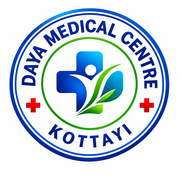
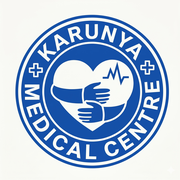
Add files via upload

diff --git a/index.html b/index.html
@@ -1,4 +1,4 @@
-<!doctype html><html lang="en"><head><meta charset="utf-8"><meta name="viewport" content="width=device-width,initial-scale=1,viewport-fit=cover"><meta name="theme-color" content="#123f9a"><meta name="apple-mobile-web-app-capable" content="yes"><meta name="apple-mobile-web-app-title" content="DAYA Medical Centre"><link rel="apple-touch-icon" href="icon-180.png"><link rel="manifest" href="manifest.webmanifest"><title>DAYA Clinic Manager | DAYA MEDICAL CENTRE, Kottayi</title>
+<!doctype html><html lang="en"><head><meta charset="utf-8"><meta name="viewport" content="width=device-width,initial-scale=1,viewport-fit=cover"><meta name="theme-color" content="#123f9a"><meta name="apple-mobile-web-app-capable" content="yes"><meta name="apple-mobile-web-app-title" content="KARUNYA MEDICAL CENTRE"><link rel="apple-touch-icon" href="icon-180.png"><link rel="manifest" href="manifest.webmanifest"><title>KARUNYA Clinic Manager | KARUNYA MEDICAL CENTRE, Ittonam</title>
 <style>
 :root{font-family:-apple-system,BlinkMacSystemFont,Arial,sans-serif;color:#16393c;background:#f3f8f7}*{box-sizing:border-box}body{margin:0}header{background:#123f9a;color:white;padding:14px 20px;display:flex;align-items:center;justify-content:space-between;gap:10px}header img{height:55px;width:55px;object-fit:contain;background:white;border-radius:12px}header .brand{display:flex;align-items:center;gap:12px}header h1{font-size:21px;margin:0}header small{opacity:.9}main{max-width:1050px;margin:auto;padding:18px}nav{display:flex;gap:7px;overflow:auto;margin-bottom:18px}button{background:#123f9a;color:white;border:0;border-radius:9px;padding:11px 15px;font-weight:650;cursor:pointer}button.secondary{background:#e8eefb;color:#0a347e}button.danger{background:#a42f38}nav button{white-space:nowrap;background:#e8eefb;color:#123f9a}nav button.active{background:#123f9a;color:white}.card{background:white;border:1px solid #dce9e6;border-radius:15px;padding:18px;margin-bottom:15px;box-shadow:0 3px 12px #1233}.grid{display:grid;grid-template-columns:repeat(2,minmax(0,1fr));gap:12px}.three{grid-template-columns:repeat(3,minmax(0,1fr))}label{display:block;font-size:12px;font-weight:700;color:#4d6d70;margin:7px 0 5px}input,textarea,select{width:100%;padding:11px;border:1px solid #c9dcda;border-radius:9px;font:inherit;background:white}textarea{min-height:70px}.actions{display:flex;gap:8px;flex-wrap:wrap;margin-top:14px}.muted{color:#647c80;font-size:13px}.warning{padding:12px;background:#fff3d9;border-radius:9px;color:#77561c}.error{color:#a42f38}.hidden{display:none!important}.row{display:flex;align-items:center;gap:9px;flex-wrap:wrap}.row>*{min-width:0}.entry{padding:10px 0;border-bottom:1px solid #e3ece9}.entry:last-child{border:0}.entry button{padding:7px 10px}h2{font-size:20px;margin:0 0 12px}h3{font-size:15px;color:#123f9a}section.panel{display:none}section.panel.active{display:block}#auth{position:fixed;inset:0;z-index:100;background:#eaf3f1;display:flex;align-items:center;justify-content:center;padding:15px}#auth .card{width:min(480px,100%)}#auth img{width:110px;height:90px;object-fit:contain}#printOverlay{position:fixed;inset:0;z-index:200;overflow:auto;background:#dce5e4;padding:16px}#printSheet{background:white;width:min(210mm,100%);min-height:0;margin:auto;padding:16mm;display:flex;flex-direction:column;gap:12px;color:#19383c;font-size:12px}#printSheet .rxhead{display:flex;gap:15px;align-items:center;border-bottom:3px solid #123f9a;padding-bottom:13px}#printSheet .rxhead img{width:85px;height:85px;object-fit:contain}#printSheet .rxname{font-size:25px;color:#123f9a;font-weight:800}#printSheet .patient{background:#eef3fc;border-radius:8px;padding:12px;display:grid;grid-template-columns:repeat(3,1fr);gap:10px}#printSheet .rxsection{padding:8px 0;border-bottom:1px solid #e2ece9;white-space:pre-wrap;overflow-wrap:anywhere}#printSheet .rxsection b{color:#123f9a;text-transform:uppercase;letter-spacing:.7px;font-size:10px;display:block;margin-bottom:4px}table{width:100%;border-collapse:collapse}th{background:#e8eefb;text-align:left;color:#183b7d}td,th{padding:9px;border-bottom:1px solid #e4eeeb;vertical-align:top;overflow-wrap:anywhere}#printSheet footer{margin-top:auto;text-align:right;padding-top:35px}#printControls{position:sticky;top:0;display:flex;justify-content:center;gap:10px;background:#dce5e4;padding:10px;margin-bottom:10px}@media(max-width:650px){.grid,.three{grid-template-columns:1fr}#printSheet{padding:20px;min-height:0}.rxname{font-size:20px!important}}@media print{@page{size:A5;margin:7mm}body>*:not(#printOverlay){display:none!important}#printOverlay{position:static;background:white;padding:0;overflow:visible}#printControls{display:none!important}#printSheet{width:auto;min-height:0;padding:0;margin:0;print-color-adjust:exact;-webkit-print-color-adjust:exact}.rxsection,tr{break-inside:avoid}}
 </style>
@@ -43,11 +43,11 @@ input,textarea,select{border-color:#cfe3df;border-radius:10px;padding:11px}label
 @media(max-width:560px){main{padding:10px}.card{padding:15px}.dash-summary{grid-template-columns:1fr 1fr;gap:8px}.dash-stat{padding:12px;gap:8px}.dash-stat strong{font-size:19px}.dash-icon{flex-basis:34px;height:34px}.dash-brand{display:none}.dash-hero h2{font-size:22px}}
 @media print{@page{size:A5 portrait;margin:7mm}@page invoicepage{size:A4 portrait;margin:10mm}#printSheet.invoice-print{width:190mm!important;min-height:277mm!important;padding:8mm!important;margin:0!important}#printSheet.invoice-print table,#printSheet.invoice-print .invoice-totals,#printSheet.invoice-print footer{break-inside:avoid}}
 </style></head><body>
-<div id="auth"><div class="card"><img src="./daya-logo.png" alt="DAYA MEDICAL CENTRE, Kottayi"><h2>DAYA Clinic Manager — Secure Beta</h2><p id="authIntro" class="muted">Create a strong passphrase to encrypt your clinic records on this iPad.</p><label>Passphrase (minimum 12 characters)</label><input type="password" id="pass" autocomplete="off"><div id="confirmBlock"><label>Confirm passphrase</label><input type="password" id="passConfirm" autocomplete="off"></div><div class="actions"><button id="unlockBtn">Create encrypted vault</button><button type="button" class="secondary" id="recoverBtn">Recover from recovery kit</button></div><div id="recoveryPanel" class="hidden"><h3>Recover using your recovery kit</h3><p class="muted">Recovery restores the snapshot saved in the kit. Changes after its creation will not be recovered.</p><label>Recovery kit file</label><input id="recoveryFile" type="file" accept=".json,application/json"><label>Recovery key (from the kit)</label><input id="recoveryKey" autocomplete="off" spellcheck="false"><label>New passphrase (12+ characters)</label><input id="recoveryNewPass" type="password" autocomplete="off"><label>Confirm new passphrase</label><input id="recoveryConfirm" type="password" autocomplete="off"><div class="actions"><button id="doRecover" type="button">Recover and set new passphrase</button></div><p class="error" id="recoveryError"></p></div><p id="authError" class="error"></p><p class="warning">Recovery requires a previously exported recovery kit AND its separate recovery key. Without these, lost passphrases cannot be reset. Clearing Safari data can permanently erase the local vault.</p></div></div>
-<header><div class="brand"><img src="./daya-logo.png" alt="DAYA MEDICAL CENTRE, Kottayi"><div><h1>DAYA Clinic Manager</h1><small>DAYA MEDICAL CENTRE · KOTTAYI · Offline encrypted beta</small></div></div><button class="secondary" id="lockBtn">Lock</button></header>
+<div id="auth"><div class="card"><img src="./karunya-logo.png" alt="KARUNYA MEDICAL CENTRE, Ittonam"><h2>KARUNYA Clinic Manager — Secure Beta</h2><p id="authIntro" class="muted">Create a strong passphrase to encrypt your clinic records on this iPad.</p><label>Passphrase (minimum 12 characters)</label><input type="password" id="pass" autocomplete="off"><div id="confirmBlock"><label>Confirm passphrase</label><input type="password" id="passConfirm" autocomplete="off"></div><div class="actions"><button id="unlockBtn">Create encrypted vault</button><button type="button" class="secondary" id="recoverBtn">Recover from recovery kit</button></div><div id="recoveryPanel" class="hidden"><h3>Recover using your recovery kit</h3><p class="muted">Recovery restores the snapshot saved in the kit. Changes after its creation will not be recovered.</p><label>Recovery kit file</label><input id="recoveryFile" type="file" accept=".json,application/json"><label>Recovery key (from the kit)</label><input id="recoveryKey" autocomplete="off" spellcheck="false"><label>New passphrase (12+ characters)</label><input id="recoveryNewPass" type="password" autocomplete="off"><label>Confirm new passphrase</label><input id="recoveryConfirm" type="password" autocomplete="off"><div class="actions"><button id="doRecover" type="button">Recover and set new passphrase</button></div><p class="error" id="recoveryError"></p></div><p id="authError" class="error"></p><p class="warning">Recovery requires a previously exported recovery kit AND its separate recovery key. Without these, lost passphrases cannot be reset. Clearing Safari data can permanently erase the local vault.</p></div></div>
+<header><div class="brand"><img src="./karunya-logo.png" alt="KARUNYA MEDICAL CENTRE, Ittonam"><div><h1>KARUNYA Clinic Manager</h1><small>KARUNYA MEDICAL CENTRE · ITTONAM · Offline encrypted beta</small></div></div><button class="secondary" id="lockBtn">Lock</button></header>
 <main><div class="warning">Security beta: records are encrypted at rest, but this is not yet independently security-tested or approved for live identifiable patient data. Test with fictional records.</div><nav id="nav"><button data-tab="dashboard" class="active">Dashboard</button><button data-tab="patients">Patients</button><button data-tab="consult">Consultation</button><button data-tab="history">History</button><button data-tab="appointments">Appointments</button><button data-tab="billing">Billing & invoices</button><button data-tab="reports">Reports & analytics</button><button data-tab="presets">Saved medicines & labs</button><button data-tab="settings">Settings & encrypted backups</button></nav>
 <section id="dashboard" class="panel">
-<div class="dash-hero"><div><h2>Welcome back</h2><p>Better care. Healthier tomorrows.</p></div><div class="dash-brand"><img src="./daya-logo.png" alt="DAYA MEDICAL CENTRE, Kottayi"><strong>DAYA MEDICAL CENTRE</strong><small>Kottayi · Clinic management</small></div></div>
+<div class="dash-hero"><div><h2>Welcome back</h2><p>Better care. Healthier tomorrows.</p></div><div class="dash-brand"><img src="./karunya-logo.png" alt="KARUNYA MEDICAL CENTRE, Ittonam"><strong>KARUNYA MEDICAL CENTRE</strong><small>Ittonam · Clinic management</small></div></div>
 <div class="dash-summary"><div class="dash-stat"><span class="dash-icon">♙</span><div><label>Total patients</label><strong id="dashPatients">0</strong><small>Registered patients</small></div></div><div class="dash-stat"><span class="dash-icon blue">▦</span><div><label>Today's appointments</label><strong id="dashAppointments">0</strong><small>Scheduled today</small></div></div><div class="dash-stat"><span class="dash-icon purple">▤</span><div><label>Consultations</label><strong id="dashConsultations">0</strong><small>Today</small></div></div><div class="dash-stat"><span class="dash-icon amber">₹</span><div><label>Revenue today</label><strong id="dashRevenue">₹0.00</strong><small>Paid invoices</small></div></div></div>
 <div class="dash-columns"><div class="card dash-table-card"><div class="dash-card-head"><h3>Today's appointments</h3><button class="secondary" data-open="appointments">View all</button></div><div id="dashApptTable" class="dash-table"></div></div><div class="card dash-quick"><h3>Quick actions</h3><div class="dash-quick-grid"><button data-open="patients">＋ Register patient</button><button data-open="consult">✚ New consultation</button><button data-open="billing">₹ Create invoice</button><button data-open="history">▤ Patient history</button><button data-open="presets">♧ Saved medicines & labs</button><button data-open="appointments">▦ Schedule appointment</button></div><p class="muted">Clinical records are encrypted in this browser's IndexedDB while the vault is unlocked.</p></div></div>
 <div class="card dash-table-card"><div class="dash-card-head"><h3>Recent patients</h3><button class="secondary" data-open="patients">View all</button></div><div id="dashPatientTable" class="dash-table"></div></div><div class="card dash-meta"><p id="stats"></p><div id="dailyCounts" class="grid three"></div></div></section>
@@ -68,9 +68,9 @@ const b64=u=>btoa(String.fromCharCode(...u));
 const un64=s=>Uint8Array.from(atob(s),c=>c.charCodeAt(0));
 const rand=n=>crypto.getRandomValues(new Uint8Array(n));
 const clean=x=>String(x??'').replace(/[&<>"']/g,c=>({'&':'&amp;','<':'&lt;','>':'&gt;','"':'&quot;',"'":'&#39;'}[c]));
-const initial=()=>({patients:[],visits:[],medPresets:[],labPresets:[],nextPatientSerial:1,appointments:[],invoices:[],nextInvoiceSerial:1,settings:{clinic:'DAYA MEDICAL CENTRE',doctor:'',reg:'',contact:''}});
+const initial=()=>({patients:[],visits:[],medPresets:[],labPresets:[],nextPatientSerial:1,appointments:[],invoices:[],nextInvoiceSerial:1,settings:{clinic:'KARUNYA MEDICAL CENTRE',doctor:'',reg:'',contact:''}});
 let data=initial(),key=null,vault=null,idle=null,busy=false;
-const DB_NAME='daya-medical-centre-secure-v1',STORE='vault';
+const DB_NAME='karunya-medical-centre-secure-v1',STORE='vault';
 function openDB(){return new Promise((resolve,reject)=>{const r=indexedDB.open(DB_NAME,1);r.onupgradeneeded=()=>r.result.createObjectStore(STORE);r.onsuccess=()=>resolve(r.result);r.onerror=()=>reject(r.error)})}
 async function getRecord(){const db=await openDB();return new Promise((resolve,reject)=>{const t=db.transaction(STORE,'readonly'),r=t.objectStore(STORE).get('primary');r.onsuccess=()=>{db.close();resolve(r.result)};r.onerror=()=>{db.close();reject(r.error)}})}
 async function putRecord(record){const db=await openDB();return new Promise((resolve,reject)=>{const t=db.transaction(STORE,'readwrite');t.objectStore(STORE).put(record,'primary');t.oncomplete=()=>{db.close();resolve()};t.onerror=()=>{db.close();reject(t.error)};t.onabort=()=>{db.close();reject(t.error)}})}
@@ -95,7 +95,7 @@ function options(items,placeholder){return '<option value="">'+placeholder+'</op
 function nextPatientNumber(){const used=new Set(data.patients.map(p=>String(p.number||'')));let n=Math.max(1,Number.isSafeInteger(data.nextPatientSerial)?data.nextPatientSerial:1);for(const p of data.patients){if(/^\d+$/.test(String(p.number||'')))n=Math.max(n,Number(p.number)+1)}while(used.has(String(n).padStart(6,'0'))||used.has(String(n)))n++;return n}
 function render(){if(!key)return;$('pNumber').value=String(nextPatientNumber()).padStart(6,'0');$('stats').textContent=`${data.patients.length} patients · ${data.visits.length} consultations · ${data.medPresets.length} medication presets · ${data.labPresets.length} saved labs`;
 const patients=[...data.patients].sort((a,b)=>a.name.localeCompare(b.name));for(const id of ['vPatient','historyPatient']){const el=$(id),prev=el.value;el.innerHTML=options(patients,'Select patient');el.value=prev}
-renderPatients();renderHistory();renderPresets();renderOperations();$('sClinic').value=data.settings.clinic||'DAYA MEDICAL CENTRE';$('sDoctor').value=data.settings.doctor||'';$('sReg').value=data.settings.reg||'';$('sContact').value=data.settings.contact||''}
+renderPatients();renderHistory();renderPresets();renderOperations();$('sClinic').value=data.settings.clinic||'KARUNYA MEDICAL CENTRE';$('sDoctor').value=data.settings.doctor||'';$('sReg').value=data.settings.reg||'';$('sContact').value=data.settings.contact||''}
 function renderPatients(){const q=$('patientSearch').value.toLowerCase();$('patientList').innerHTML=data.patients.filter(p=>(p.name+' '+p.number).toLowerCase().includes(q)).map(p=>`<div class="entry"><strong>${clean(p.name)}</strong> · ${clean(p.number)} · ${clean(p.age)} / ${clean(p.sex)}<div class="muted">Allergies: ${clean(p.allergies||'Not entered')}</div></div>`).join('')||'<p class="muted">No patients found.</p>'}
 $('patientSearch').oninput=renderPatients;
 $('addPatient').onclick=()=>guard(async()=>{const name=$('pName').value.trim();if(!name)throw Error('Enter patient name');const p={id:crypto.randomUUID(),number:String(nextPatientNumber()).padStart(6,'0'),name,createdDate:localDate(),age:$('pAge').value,sex:$('pSex').value,phone:$('pPhone').value.trim(),allergies:$('pAllergies').value.trim()};if(data.patients.some(x=>x.number===p.number))throw Error('Patient ID already exists');const priorSerial=data.nextPatientSerial;data.nextPatientSerial=Number(p.number)+1;data.patients.push(p);try{await persist()}catch(e){data.patients.pop();data.nextPatientSerial=priorSerial;throw e}['pName','pAge','pPhone','pAllergies'].forEach(id=>$(id).value='');render();alert('Patient saved in encrypted vault')});
@@ -114,9 +114,9 @@ async function saveLabPreset(name){return guard(async()=>{if(!name)throw Error('
 $('saveMedPreset').onclick=()=>saveMedPreset({name:$('mName').value.trim(),dose:$('mDose').value.trim(),freq:$('mFreq').value.trim(),duration:$('mDuration').value.trim()});
 $('saveLabPreset').onclick=()=>saveLabPreset($('lName').value.trim());
 $('useMed').onclick=()=>{const i=$('medSelect').value;if(i!=='')addMed(data.medPresets[+i])};$('useLab').onclick=()=>{const i=$('labSelect').value;if(i!=='')addLab({test:data.labPresets[+i]})};
-$('saveSettings').onclick=()=>guard(async()=>{data.settings={clinic:$('sClinic').value.trim()||'DAYA MEDICAL CENTRE',doctor:$('sDoctor').value.trim(),reg:$('sReg').value.trim(),contact:$('sContact').value.trim()};await persist();alert('Clinic details saved')});
+$('saveSettings').onclick=()=>guard(async()=>{data.settings={clinic:$('sClinic').value.trim()||'KARUNYA MEDICAL CENTRE',doctor:$('sDoctor').value.trim(),reg:$('sReg').value.trim(),contact:$('sContact').value.trim()};await persist();alert('Clinic details saved')});
 $('exportBackup').onclick=()=>guard(async()=>{const backup={...vault,exportedAt:new Date().toISOString(),type:'daya-encrypted-backup'};const blob=new Blob([JSON.stringify(backup,null,2)],{type:'application/json'});const url=URL.createObjectURL(blob),a=document.createElement('a');a.href=url;a.download='daya-encrypted-'+new Date().toISOString().slice(0,10)+'.json';document.body.append(a);a.click();a.remove();setTimeout(()=>URL.revokeObjectURL(url),10000);status('Encrypted backup downloaded. Verify the file is stored outside this iPad.')});
-$('restoreBackup').onclick=()=>guard(async()=>{const f=$('backupFile').files[0],pass=$('backupPass').value;if(!f||!pass)throw Error('Choose backup and enter its passphrase');if(f.size>25*1024*1024)throw Error('Backup too large');const r=JSON.parse(await f.text());if(r.format!=='daya-aesgcm-v1')throw Error('Not a DAYA MEDICAL CENTRE encrypted backup');const restoredKey=await derive(pass,un64(r.salt),r.iterations),restored=await decrypt(r,restoredKey);validate(restored);upgradeOperations(restored);if(!confirm('REPLACE all records on this iPad with the encrypted backup? This cannot be undone.'))return;const record={format:r.format,iterations:r.iterations,salt:r.salt,iv:r.iv,ciphertext:r.ciphertext};await putRecord(record);vault=record;key=restoredKey;data=restored;$('backupPass').value='';render();status('Encrypted backup restored successfully.');alert('Restore completed')});
+$('restoreBackup').onclick=()=>guard(async()=>{const f=$('backupFile').files[0],pass=$('backupPass').value;if(!f||!pass)throw Error('Choose backup and enter its passphrase');if(f.size>25*1024*1024)throw Error('Backup too large');const r=JSON.parse(await f.text());if(r.format!=='daya-aesgcm-v1')throw Error('Not a KARUNYA MEDICAL CENTRE encrypted backup');const restoredKey=await derive(pass,un64(r.salt),r.iterations),restored=await decrypt(r,restoredKey);validate(restored);upgradeOperations(restored);if(!confirm('REPLACE all records on this iPad with the encrypted backup? This cannot be undone.'))return;const record={format:r.format,iterations:r.iterations,salt:r.salt,iv:r.iv,ciphertext:r.ciphertext};await putRecord(record);vault=record;key=restoredKey;data=restored;$('backupPass').value='';render();status('Encrypted backup restored successfully.');alert('Restore completed')});
 
 // Offline recovery kit: an independently encrypted snapshot using a random 256-bit key.
 // It can restore only data included at the moment the kit was generated.
@@ -218,11 +218,11 @@ function runReports(){
 $('runReports').onclick=runReports;
 function downloadCSV(rows,name){const csv=rows.map(row=>row.map(v=>'"'+String(v??'').replaceAll('"','""')+'"').join(',')).join('\r\n');const blob=new Blob(['\ufeff'+csv],{type:'text/csv;charset=utf-8'}),url=URL.createObjectURL(blob),a=document.createElement('a');a.href=url;a.download=name;document.body.append(a);a.click();a.remove();setTimeout(()=>URL.revokeObjectURL(url),10000)}
 $('exportReport').onclick=()=>{const {r,revenue,outstanding}=runReports();downloadCSV([['Metric','Value'],['From',r.from],['To',r.to],['Consultations',r.visits.length],['New patients',r.newPatients.length],['Appointments',r.appointments.length],['Completed appointments',r.appointments.filter(a=>a.status==='Completed').length],['Paid revenue INR',revenue.toFixed(2)],['Outstanding INR',outstanding.toFixed(2)]],'healbay-summary-'+localDate()+'.csv')};
-function printInvoice(id){const i=data.invoices.find(x=>x.id===id),p=person(i?.patientId);if(!i||!p)return;const s=data.settings,items=Array.isArray(i.items)&&i.items.length?i.items:[{category:'Other charges',service:i.service||'Service',qty:i.qty||1,rate:i.rate||i.subtotal||0}],rows=items.map(x=>`<tr><td>${clean(x.category||'Other charges')}</td><td>${clean(x.service)}</td><td>${Number(x.qty)||1}</td><td>${currency(Number(x.rate)||0)}</td><td>${currency((Number(x.qty)||1)*(Number(x.rate)||0))}</td></tr>`).join('');$('printSheet').classList.add('invoice-print');$('printSheet').innerHTML=`<div class="rxhead"><img src="./daya-logo.png" alt="DAYA MEDICAL CENTRE logo"><div class="rxheadcenter"><div class="rxname">${clean(s.clinic||'DAYA MEDICAL CENTRE')}</div><div>${clean(s.contact)}</div><strong>${clean(s.doctor)}</strong></div><div class="rxheadbalance"></div></div><h2 style="text-align:center">INVOICE</h2><div class="patient"><div><b>Invoice</b><br>${clean(i.number)}</div><div><b>Date</b><br>${clean(i.date)}</div><div><b>Patient</b><br>${clean(p.name)} (${clean(p.number)})</div></div><table><thead><tr><th>Category</th><th>Description</th><th>Qty</th><th>Rate</th><th>Amount</th></tr></thead><tbody>${rows}</tbody></table><div class="invoice-totals">Subtotal: ${currency(i.subtotal)}<br>Discount: ${currency(i.discount)}<br>Tax (${i.tax}%): ${currency(i.taxAmount)}<div class="grand">Total: ${currency(i.total)}</div><b>Status: ${clean(i.status)}</b><br>Payment method: ${clean(i.method)}</div><footer>For ${clean(s.clinic||'DAYA MEDICAL CENTRE')}<br>Authorized signature / stamp</footer>`;$('printOverlay').classList.remove('hidden');requestAnimationFrame(checkA5Fit);scrollTo(0,0)}
+function printInvoice(id){const i=data.invoices.find(x=>x.id===id),p=person(i?.patientId);if(!i||!p)return;const s=data.settings,items=Array.isArray(i.items)&&i.items.length?i.items:[{category:'Other charges',service:i.service||'Service',qty:i.qty||1,rate:i.rate||i.subtotal||0}],rows=items.map(x=>`<tr><td>${clean(x.category||'Other charges')}</td><td>${clean(x.service)}</td><td>${Number(x.qty)||1}</td><td>${currency(Number(x.rate)||0)}</td><td>${currency((Number(x.qty)||1)*(Number(x.rate)||0))}</td></tr>`).join('');$('printSheet').classList.add('invoice-print');$('printSheet').innerHTML=`<div class="rxhead"><img src="./karunya-logo.png" alt="KARUNYA MEDICAL CENTRE logo"><div class="rxheadcenter"><div class="rxname">${clean(s.clinic||'KARUNYA MEDICAL CENTRE')}</div><div>${clean(s.contact)}</div><strong>${clean(s.doctor)}</strong></div><div class="rxheadbalance"></div></div><h2 style="text-align:center">INVOICE</h2><div class="patient"><div><b>Invoice</b><br>${clean(i.number)}</div><div><b>Date</b><br>${clean(i.date)}</div><div><b>Patient</b><br>${clean(p.name)} (${clean(p.number)})</div></div><table><thead><tr><th>Category</th><th>Description</th><th>Qty</th><th>Rate</th><th>Amount</th></tr></thead><tbody>${rows}</tbody></table><div class="invoice-totals">Subtotal: ${currency(i.subtotal)}<br>Discount: ${currency(i.discount)}<br>Tax (${i.tax}%): ${currency(i.taxAmount)}<div class="grand">Total: ${currency(i.total)}</div><b>Status: ${clean(i.status)}</b><br>Payment method: ${clean(i.method)}</div><footer>For ${clean(s.clinic||'KARUNYA MEDICAL CENTRE')}<br>Authorized signature / stamp</footer>`;$('printOverlay').classList.remove('hidden');requestAnimationFrame(checkA5Fit);scrollTo(0,0)}
 addBillRow('Consultation fee','Consultation',1,'');$('apptDate').value=localDate();$('apptFilter').value=localDate();$('billDate').value=localDate();$('reportFrom').value=localDate().slice(0,7)+'-01';$('reportTo').value=localDate();
 
 function rxBlock(title,value){return String(value||'').trim()?`<div class="rxsection"><b>${title}</b>${clean(value)}</div>`:''}
-function printVisit(id){const v=data.visits.find(x=>x.id===id),p=data.patients.find(x=>x.id===v?.patientId);if(!v||!p)return;const s=data.settings;const meds=v.meds.map((m,i)=>`<tr><td>${i+1}. ${clean(m.name)}</td><td>${clean(m.dose)}</td><td>${clean(m.freq)}</td><td>${clean(m.duration)}</td></tr>`).join('');$('printSheet').innerHTML=`<div class="rxhead"><img src="./daya-logo.png" alt="DAYA MEDICAL CENTRE logo"><div class="rxheadcenter"><div class="rxname">${clean(s.clinic||'DAYA MEDICAL CENTRE')}</div><div>${clean(s.contact)}</div><strong>${clean(s.doctor)}</strong><div>Medical registration: ${clean(s.reg)}</div></div><div class="rxheadbalance" aria-hidden="true"></div></div><div class="row" style="justify-content:space-between"><b>OUTPATIENT PRESCRIPTION</b><b>${clean(v.date)}</b></div><div class="patient"><div><small>Patient</small><br><strong>${clean(p.name)}</strong></div><div><small>ID</small><br>${clean(p.number)}</div><div><small>Age / Sex</small><br>${clean(p.age)} / ${clean(p.sex)}</div></div>${rxBlock('Allergies / alerts',p.allergies)}${rxBlock('Vitals',[v.bp&&'BP: '+v.bp,v.pulse&&'Pulse: '+v.pulse,v.temp&&'Temperature: '+v.temp,v.spo2&&'SpO₂: '+v.spo2,v.weight&&'Weight: '+v.weight].filter(Boolean).join(' · '))}${rxBlock('Chief complaints',v.complaints)}${rxBlock('Clinical findings',v.findings)}${rxBlock('Assessment / diagnosis',v.diagnosis)}<h2 style="font-family:Georgia,serif;color:#123f9a">℞</h2><table><thead><tr><th>Medicine / strength</th><th>Dose</th><th>Frequency</th><th>Duration</th></tr></thead><tbody>${meds||'<tr><td colspan="4">No medicines entered</td></tr>'}</tbody></table>${rxBlock('Investigations',v.labs.map(l=>l.test).join(' · '))}${rxBlock('Advice / follow-up',v.advice)}<footer>________________________<br><strong>${clean(s.doctor||'Treating clinician')}</strong><br>Signature / stamp</footer>`;$('printOverlay').classList.remove('hidden');requestAnimationFrame(checkA5Fit);scrollTo(0,0)}
+function printVisit(id){const v=data.visits.find(x=>x.id===id),p=data.patients.find(x=>x.id===v?.patientId);if(!v||!p)return;const s=data.settings;const meds=v.meds.map((m,i)=>`<tr><td>${i+1}. ${clean(m.name)}</td><td>${clean(m.dose)}</td><td>${clean(m.freq)}</td><td>${clean(m.duration)}</td></tr>`).join('');$('printSheet').innerHTML=`<div class="rxhead"><img src="./karunya-logo.png" alt="KARUNYA MEDICAL CENTRE logo"><div class="rxheadcenter"><div class="rxname">${clean(s.clinic||'KARUNYA MEDICAL CENTRE')}</div><div>${clean(s.contact)}</div><strong>${clean(s.doctor)}</strong><div>Medical registration: ${clean(s.reg)}</div></div><div class="rxheadbalance" aria-hidden="true"></div></div><div class="row" style="justify-content:space-between"><b>OUTPATIENT PRESCRIPTION</b><b>${clean(v.date)}</b></div><div class="patient"><div><small>Patient</small><br><strong>${clean(p.name)}</strong></div><div><small>ID</small><br>${clean(p.number)}</div><div><small>Age / Sex</small><br>${clean(p.age)} / ${clean(p.sex)}</div></div>${rxBlock('Allergies / alerts',p.allergies)}${rxBlock('Vitals',[v.bp&&'BP: '+v.bp,v.pulse&&'Pulse: '+v.pulse,v.temp&&'Temperature: '+v.temp,v.spo2&&'SpO₂: '+v.spo2,v.weight&&'Weight: '+v.weight].filter(Boolean).join(' · '))}${rxBlock('Chief complaints',v.complaints)}${rxBlock('Clinical findings',v.findings)}${rxBlock('Assessment / diagnosis',v.diagnosis)}<h2 style="font-family:Georgia,serif;color:#123f9a">℞</h2><table><thead><tr><th>Medicine / strength</th><th>Dose</th><th>Frequency</th><th>Duration</th></tr></thead><tbody>${meds||'<tr><td colspan="4">No medicines entered</td></tr>'}</tbody></table>${rxBlock('Investigations',v.labs.map(l=>l.test).join(' · '))}${rxBlock('Advice / follow-up',v.advice)}<footer>________________________<br><strong>${clean(s.doctor||'Treating clinician')}</strong><br>Signature / stamp</footer>`;$('printOverlay').classList.remove('hidden');requestAnimationFrame(checkA5Fit);scrollTo(0,0)}
 function checkA5Fit(){
  const sheet=$('printSheet'),button=$('printBtn'),status=$('a5Status');
  // A5 printable height is 196 mm, including the sheet’s internal padding.
